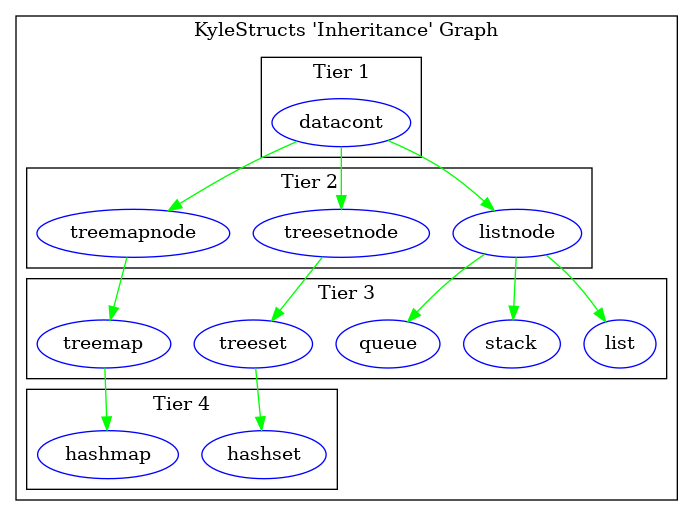
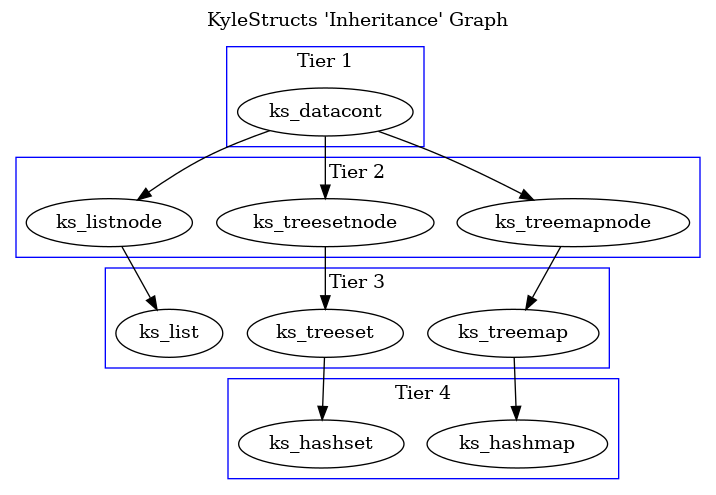
update project visuals and readme

Changed region(s): [[0.0, 0.0, 1.0, 0.9697], [0.9394, 0.6364, 0.9697, 0.697], [0.5455, 0.8788, 0.6061, 0.9091]]

diff --git a/samples/demo.c b/samples/demo.c
@@ -1,46 +1,40 @@
-
 #include <stdio.h>
+#include <string.h>
 #include <kylestructs.h>
 
 
 int main()
 {
-  hashmap* phonebook = hashmap_new(CHARP, 10);
-  datacont* number_dc;
-  datacont* name_dc;
+  ks_hashmap* phonebook = ks_hashmap_new(KS_CHARP, 10);
+  const ks_datacont* number_dc;
+  const ks_datacont* name_dc;
 
   char number[30] = {0};
   char name[30] = {0};
-  
+
   printf("Enter a name followed by a 10-digit phone number:\n");
 
-  while (scanf("%s %s", name, number) != -1) {
+  while (scanf("%s %s", name, number) != -1)
+  {
+    number_dc = ks_datacont_new(number, KS_CHARP, strlen(number));
+    name_dc = ks_datacont_new(name, KS_CHARP, strlen(name));
 
-    datacont* number_dc = datacont_new(number, CHARP, strlen(number));
-    datacont* name_dc = datacont_new(name, CHARP, strlen(name));
-
-    if (hashmap_add(phonebook, number_dc, name_dc) == 1)
+    if (ks_hashmap_add(phonebook, number_dc, name_dc) == 1)
       printf("Replaced existing number %s.\n", number);
 
     memset(number, 0, 30);
     memset(name, 0, 30);
   }
 
-  int count = hashmap_count(phonebook);
-
-  list* numbers = hashmap_keys(phonebook);
-  list* names = hashmap_values(phonebook);
+  int count = ks_hashmap_count(phonebook);
 
   for (int i = 0; i < count; i++)
   {
-    number_dc = list_get(numbers, i);
-    name_dc = list_get(names, i);
+    number_dc = ks_hashmap_get_key(phonebook, i);
+    name_dc = ks_hashmap_get(phonebook, number_dc);
 
     printf("%s => %s\n", number_dc->cp, name_dc->cp);
   }
 
-  hashmap_delete(phonebook);
-  list_delete(numbers);
-  list_delete(names);
+  ks_hashmap_delete(phonebook);
 }
-

diff --git a/README.md b/README.md
@@ -10,54 +10,49 @@ Here is a quick example of how KyleStructs might be used:
 /* gcc main.c -lkylestructs */
 
 #include <stdio.h>
+#include <string.h>
 #include <kylestructs.h>
 
 
 int main()
 {
-  hashmap* phonebook = hashmap_new(CHARP, 10);
-  datacont* number_dc;
-  datacont* name_dc;
+  ks_hashmap* phonebook = ks_hashmap_new(KS_CHARP, 10);
+  const ks_datacont* number_dc;
+  const ks_datacont* name_dc;
 
   char number[30] = {0};
   char name[30] = {0};
-  
+
   printf("Enter a name followed by a 10-digit phone number:\n");
 
-  while (scanf("%s %s", name, number) != -1) {
+  while (scanf("%s %s", name, number) != -1)
+  {
+    number_dc = ks_datacont_new(number, KS_CHARP, strlen(number));
+    name_dc = ks_datacont_new(name, KS_CHARP, strlen(name));
 
-    datacont* number_dc = datacont_new(number, CHARP, strlen(number));
-    datacont* name_dc = datacont_new(name, CHARP, strlen(name));
-
-    if (hashmap_add(phonebook, number_dc, name_dc) == 1)
+    if (ks_hashmap_add(phonebook, number_dc, name_dc) == 1)
       printf("Replaced existing number %s.\n", number);
 
     memset(number, 0, 30);
     memset(name, 0, 30);
   }
 
-  int count = hashmap_count(phonebook);
-
-  list* numbers = hashmap_keys(phonebook);
-  list* names = hashmap_values(phonebook);
+  int count = ks_hashmap_count(phonebook);
 
   for (int i = 0; i < count; i++)
   {
-    number_dc = list_get(numbers, i);
-    name_dc = list_get(names, i);
+    number_dc = ks_hashmap_get_key(phonebook, i);
+    name_dc = ks_hashmap_get(phonebook, number_dc);
 
     printf("%s => %s\n", number_dc->cp, name_dc->cp);
   }
 
-  hashmap_delete(phonebook);
-  list_delete(numbers);
-  list_delete(names);
+  ks_hashmap_delete(phonebook);
 }
-
 ```
 
 ## Library Overview
-At the center of all of these different data structures is the `datacont` struct. It is a container that can hold pretty much any primitive data type, and comes with a library for comparison, duplication, hashing, and more. All other structures are built on top of the `datacont` struct so that they in turn can handle most kinds of data. As the design for each structure grows more complex, functionality is borrowed from one or more of those that are less complex. Here is a graph to illustrate the order of "inheritance":
+At the center of all of these different data structures is the `ks_datacont` struct. It is a container that can hold pretty much any primitive data type, and comes with a library for comparison, duplication, hashing, and more. All other structures are built on top of the `ks_datacont` struct so that they in turn can handle most kinds of data. As the design for each structure grows more complex, functionality is borrowed from one or more of those that are less complex. Here is a graph to illustrate the order of "inheritance":
 
 ![Overview](samples/inheritance_graph.png)
 
